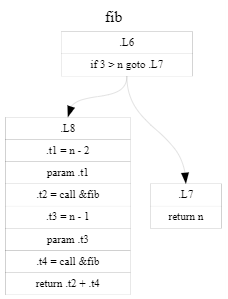
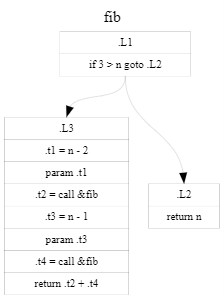
issue #7: updated README.

diff --git a/README.md b/README.md
@@ -129,7 +129,41 @@ Here is the basic block diagram of KCCI.
 
 ## Usage
 
-### Run on the x64 JIT
+### Command Line Interface
+
+#### Run Options
+
+The option `-x` will be used by default when no option specified.
+
+```
+-x          Run by VM code. (use this when no options specified)
+-j          Run by x64 JIT code.
+```
+
+#### Input Options
+
+```
+-I          Add directory to search for included files.
+-D X[=]     Define macro, optionally with a value.
+```
+
+#### Output Options
+
+The program will be not run when using one of output options.
+
+```
+-E          Output preprocessed code to stdout.
+-J          Output x64 code assembled by JIT to stdout.
+-X          Output VM code to stdout.
+-s          Output GNU style textual x64 assembly to `.s` file.
+-dot        Output IR call flow graph in dot format to `.dot` file.
+```
+
+## Examples
+
+### How to Run
+
+#### Run on the x64 JIT
 
 For JIT use the option `-j`.
 Use the option `-J` if you want to see the x64 assembly code.
@@ -141,7 +175,7 @@ $ kcc -j program.c
 $ kcc -J program.c
 ```
 
-### Run on the VM
+#### Run on the VM
 
 No options or use the option `-x` to run on the VM.
 Use the option `-X` if you want to see the VM instructions.
@@ -154,7 +188,13 @@ $ kcc -x program.c
 $ kcc -X program.c
 ```
 
-## Examples
+### Output Call Flow Graph
+
+This is `lacc`'s functionality, but `kcc` can do it also.
+Here is the output of call flow graph for switch-case assembled as a jump table.
+Please see [here](doc/technical.md) for the detail of a jump table.
+
+![JumpTable](doc/images/switch-case3.png)
 
 ### Fibonacci
 
@@ -174,6 +214,30 @@ int main()
     return printf("%d\n", fib(34));
 }
 ```
+
+#### Dot Output
+
+Although the labels, variable names, and line breaks have been changed for easy to understand,
+the output is like below.
+
+```c
+digraph {
+    node [fontname="Courier_New",fontsize=10,style="setlinewidth(0.1)",shape=record];
+    edge [fontname="Courier_New",fontsize=10,style="setlinewidth(0.1)"];
+    label="fib"
+    labelloc="t"
+    L1 [label="{ \.L1 | if 3 \> n goto \.L2 }"];
+    L3 [label="{ \.L3 | .t1 = n - 2 | param .t1 | .t2 = call &fib |
+                        .t3 = n - 1 | param .t3 | .t4 = call &fib | return .t2 + .t4 }"];
+    L2 [label="{ \.L2 | return n }"];
+    L1:s -> L3:n;
+    L1:s -> L2:n;
+}
+```
+
+The image is like this.
+
+![fib.c](doc/images/fib.png)
 
 #### Execution Sample
 
@@ -195,9 +259,11 @@ For the reference, it shows a result of Ruby and Python.
 
 |           | KCCI VM(64bit) | KCCI JIT(x64) | Ruby 2.4.0 | Ruby 2.6.3 | Python 2.7.13 |
 | --------- | :------------: | :-----------: | :--------: | :--------: | :-----------: |
-| `fib(34)` |     0.718      |   **0.062**   |   1.171    |   0.734    |     1.578     |
+| `fib(34)` |     0.453      |   **0.062**   |   1.171    |   0.734    |     1.578     |
 
-Ruby 2.6.3 is very fast against my expectations.
+I was able to make my VM faster than Ruby this time,
+but Ruby 2.6.3 is very fast against my expectations in spite of no type information.
+Of course x64 JIT code is 7x or 8x faster than that VM code.
 
 #### Compiled Code
 
@@ -303,9 +369,7 @@ I have a plan to do the followings when I have a time.
 *   [ ] Adding a library of JSON Parser.
 *   [ ] Adding a library with libCurl.
 *   [ ] Supporting encryption of Zip/Unzip.
-*   [ ] One instruction for increment and decrement.
-*   [ ] Combining VM instructions to improve the performance.
-
+S
 ## License
 
 This project is licensed under the **MIT License** - see the [LICENSE](LICENSE) file for details.
